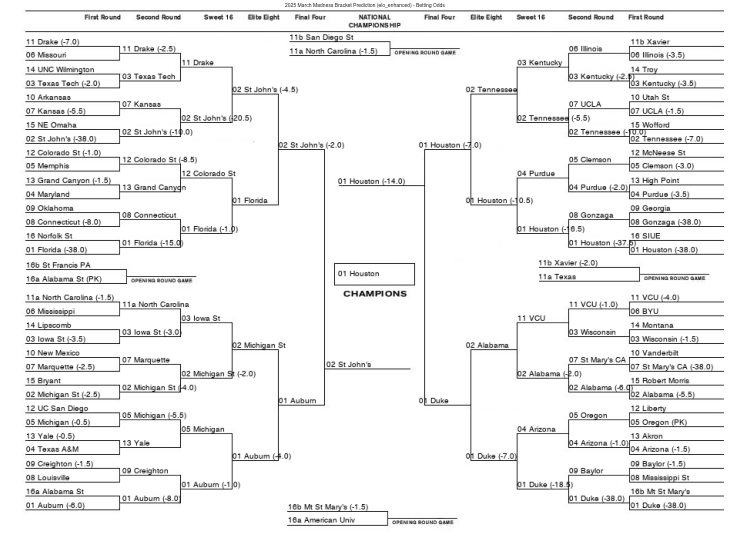
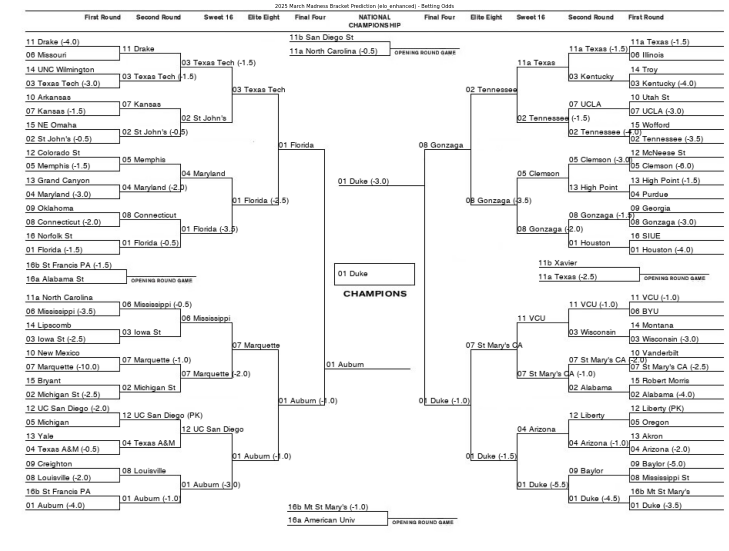
updates

diff --git a/src/enhanced_bracket_analysis.py b/src/enhanced_bracket_analysis.py
@@ -30,6 +30,7 @@ from data_classes.processing import (
     TeamStatsCalculator,
     MarchMadnessMLModel,
 )
+from data_classes.bracket import BracketSimulator
 
 # Constants
 SUBMISSION_DIR = "./output"
@@ -2175,6 +2176,27 @@ def generate_enhanced_analysis(
         full_elo_history_df=elo_df,
         current_season=year,
         ml_model=ml_model,  # Pass the ML model
+    )
+
+    # Initialize the bracket simulator
+    simulator = BracketSimulator(predictor)
+    simulator.use_predictor_data()
+
+    # Build the bracket structure
+    men_bracket_tree, men_seed_slot_map = simulator.build_bracket_tree()
+
+    # Generate the bracket visualization
+    print("Generating men's tournament bracket visualization...")
+    simulator.visualize_bracket(
+        method="elo_enhanced",
+        output_path=f"output/2025_mens_bracket.png",
+        betting_odds=True,
+    )
+
+    simulator.visualize_bracket(
+        method="elo_enhanced",
+        output_path=f"output/2025_mens_bracket_prob.png",
+        betting_odds=False,
     )
 
     # Generate requested analysis

diff --git a/src/data_classes/bracket/BracketGenerator.py b/src/data_classes/bracket/BracketGenerator.py
@@ -6,8 +6,8 @@ from binarytree import Node
 import pandas as pd
 import numpy as np
 
-from src.data_classes.processing import MarchMadnessPredictor
-from src.data_classes.bracket.seed_slots import SLOTS
+from data_classes.processing import MarchMadnessPredictor
+from data_classes.bracket.seed_slots import SLOTS
 
 
 class BracketNode(Node):
